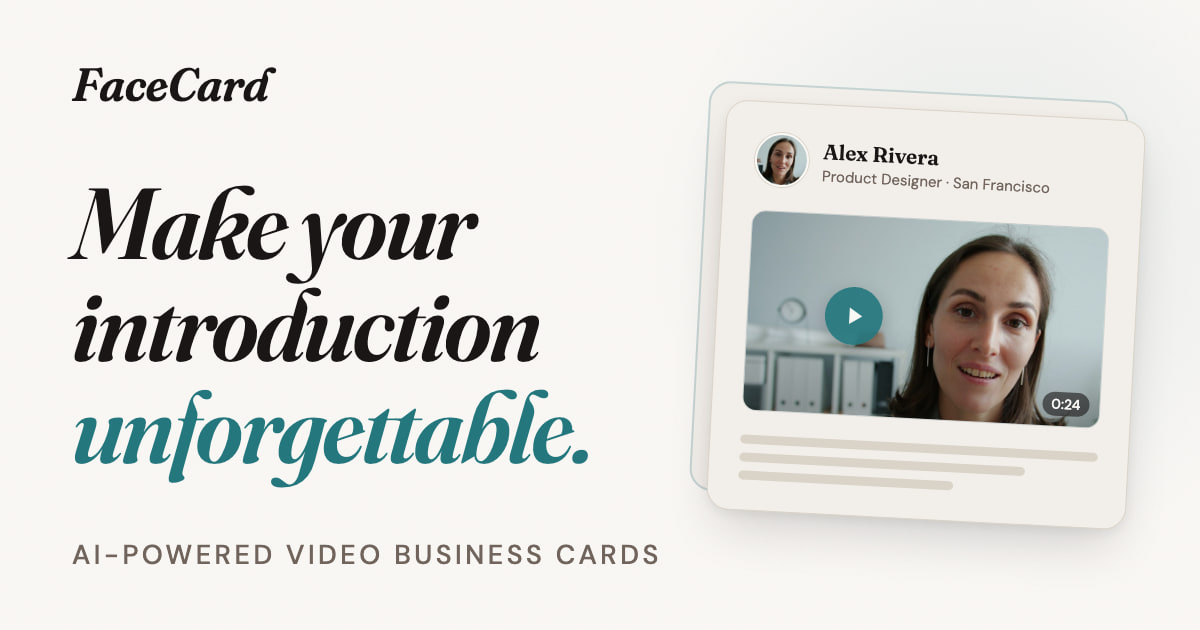
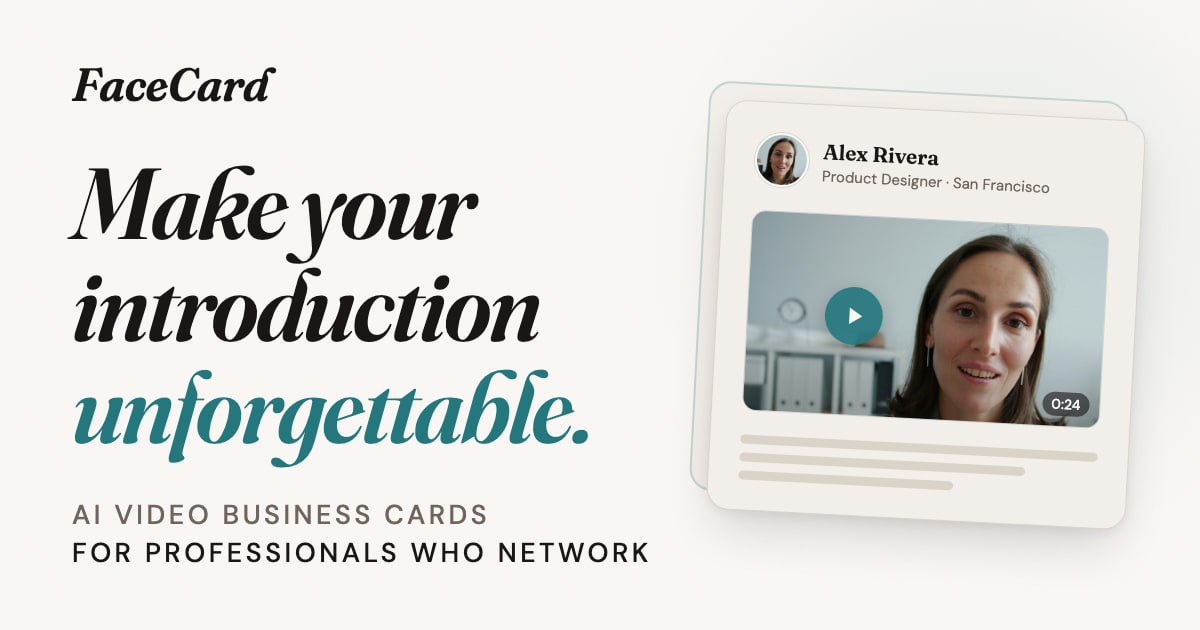
Say who FaceCard is for and show a real person on the home page card
The home page tagline and the social sharing image now read "AI video
business cards for professionals who network" instead of only naming the
product. On the page the tagline is 50% larger and always breaks into the
same two lines, with tighter letter spacing on phones so it fits.

The example card in the hero uses the same Unsplash photo as the sharing
image, behind the play button and as the avatar. This also replaces the
"K" initial that didn't match the name "Alex Rivera".

Changed region(s): [[0.0617, 0.2413, 0.555, 0.9048]]

diff --git a/src/app/page.tsx b/src/app/page.tsx
@@ -1,4 +1,5 @@
 import Link from "next/link";
+import Image from "next/image";
 import { Button } from "@/components/ui/button";
 import { ResumeCard } from "@/components/resume-card";
 
@@ -11,8 +12,9 @@ export default function Home() {
           <div className="grid gap-10 lg:grid-cols-2 lg:gap-12 items-center">
             <div className="flex flex-col space-y-6 sm:space-y-8">
               <div className="space-y-3 sm:space-y-4">
-                <span className="animate-fade-up-1 inline-block font-sans-body text-xs uppercase tracking-[0.2em] text-muted-foreground">
-                  AI-Powered Video Business Cards
+                <span className="animate-fade-up-1 inline-block font-sans-body text-lg leading-snug uppercase tracking-[0.03em] sm:tracking-[0.2em] text-muted-foreground">
+                  AI Video Business Cards <br />
+                  for Professionals Who Network
                 </span>
                 <h1 className="animate-fade-up-2 font-display italic text-4xl font-semibold leading-[1.15] tracking-tight sm:text-5xl sm:leading-[1.1] md:text-6xl lg:text-7xl text-foreground">
                   Make your introduction{" "}
@@ -37,29 +39,39 @@ export default function Home() {
               </div>
             </div>
 
-            {/* Abstract card mockup */}
+            {/* Example video card */}
             <div className="animate-fade-up-3 hidden lg:flex items-center justify-center">
               <div className="relative w-full max-w-sm">
                 <div className="absolute -top-4 -left-4 w-full h-full rounded-2xl border-2 border-primary/20 bg-card" />
                 <div className="relative rounded-2xl border border-border bg-card p-8 shadow-lg">
                   <div className="space-y-6">
                     <div className="flex items-center gap-3">
-                      <div className="h-12 w-12 rounded-full bg-primary/15 flex items-center justify-center">
-                        <span className="font-display italic text-primary text-lg font-semibold">K</span>
-                      </div>
+                      <Image
+                        src="/images/intro-avatar.jpg"
+                        alt=""
+                        width={48}
+                        height={48}
+                        className="h-12 w-12 rounded-full object-cover ring-1 ring-border"
+                      />
                       <div>
                         <p className="font-display font-semibold text-foreground">Alex Rivera</p>
                         <p className="font-sans-body text-sm text-muted-foreground">Product Designer · San Francisco</p>
                       </div>
                     </div>
-                    <div className="rounded-xl bg-background border border-border aspect-video flex items-center justify-center relative overflow-hidden">
-                      <div className="absolute inset-0 bg-gradient-to-br from-primary/5 to-primary/15" />
-                      <div className="relative flex flex-col items-center gap-2">
-                        <div className="h-10 w-10 rounded-full bg-primary/90 flex items-center justify-center">
-                          <svg xmlns="http://www.w3.org/2000/svg" width="16" height="16" viewBox="0 0 24 24" fill="currentColor" className="text-primary-foreground ml-0.5"><polygon points="5 3 19 12 5 21 5 3"/></svg>
-                        </div>
-                        <span className="font-sans-body text-xs text-muted-foreground">0:24</span>
+                    <div className="rounded-xl bg-background border border-border aspect-video relative overflow-hidden">
+                      {/* Same still as the social sharing image; the play button sits left of her face. */}
+                      <Image
+                        src="/images/intro-video.jpg"
+                        alt="A woman recording a short video introduction"
+                        fill
+                        sizes="320px"
+                        className="object-cover"
+                      />
+                      <div className="absolute inset-0 bg-gradient-to-b from-transparent from-55% to-foreground/25" />
+                      <div className="absolute left-[28%] top-1/2 -translate-x-1/2 -translate-y-1/2 h-10 w-10 rounded-full bg-primary/90 flex items-center justify-center shadow-lg">
+                        <svg xmlns="http://www.w3.org/2000/svg" width="16" height="16" viewBox="0 0 24 24" fill="currentColor" className="text-primary-foreground ml-0.5"><polygon points="5 3 19 12 5 21 5 3"/></svg>
                       </div>
+                      <span className="absolute right-2 bottom-2 rounded-full bg-foreground/60 px-2 py-0.5 font-sans-body text-xs font-medium text-background">0:24</span>
                     </div>
                     <div className="space-y-1.5">
                       <div className="h-2 rounded-full bg-border w-full" />
